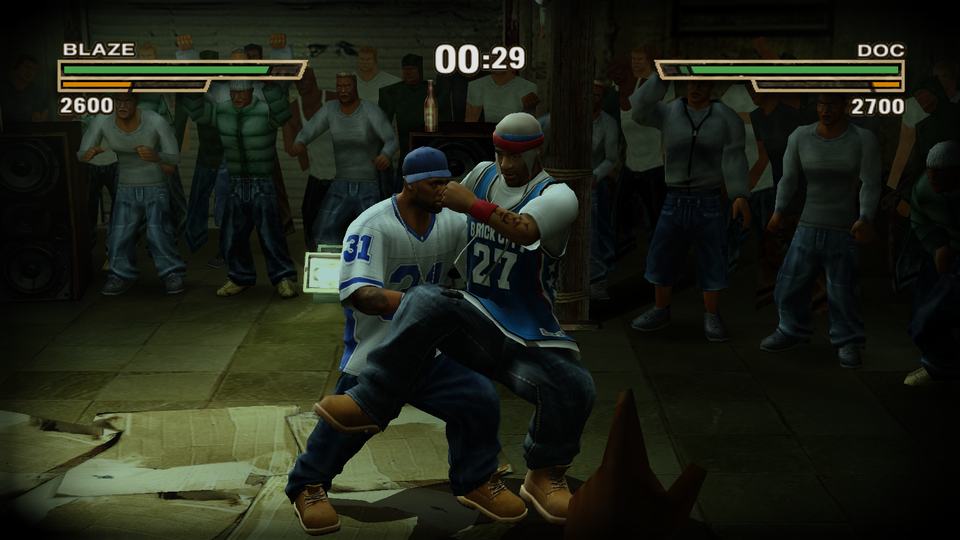
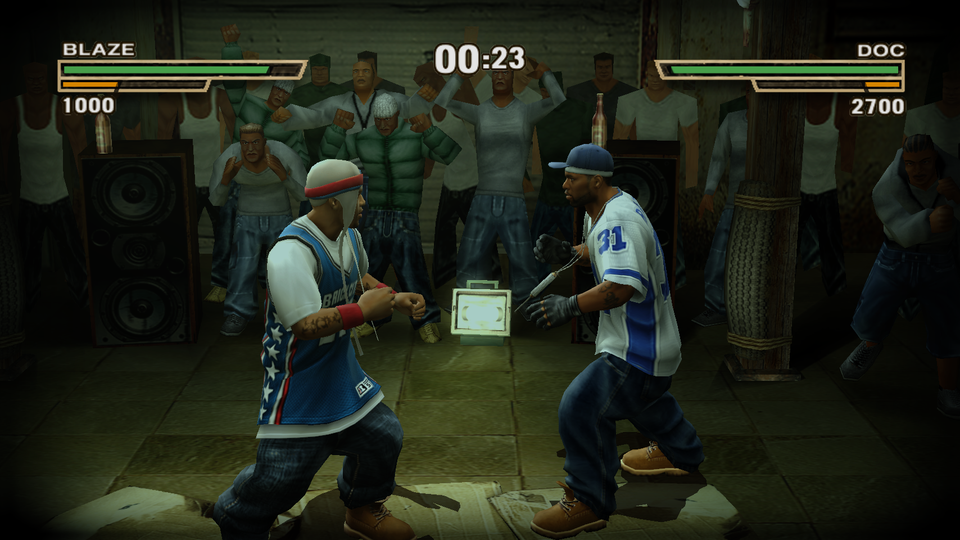
docs: show selected face-off as widescreen comparison
Use matching step1200 HD captures for the README 4:3/16:9 pair and gallery
hero. Update exact media fingerprints, provenance and resolved owner choice.

diff --git a/scripts/check-source-tree.py b/scripts/check-source-tree.py
@@ -25,10 +25,10 @@ APPROVED_README_MEDIA = {
[1 lines of base64/hex data omitted]
 
     # 2026-10-13: owner requested curated PR22 media from the Mac capture set.
[9 lines of base64/hex data omitted]

diff --git a/PROGRESS.md b/PROGRESS.md
@@ -180,6 +180,8 @@
 
 | D111 | 2026-10-14 | Owner rejected the selected battle capture and requested alternatives; do not choose its replacement until he selects an option. Remove merged PR12 from README player copy and state released widescreen availability directly. | Offer existing HD battle frames at steps900,1200,2100; keep technical build provenance in the gallery. No new media is published by this wording update. |
 
+| D112 | 2026-10-14 | Vlad selected option B, the step1200 face-off, and requested a widescreen-versus-4:3 comparison. Replace the README hero with the labelled matched pair and update the standalone gallery hero to the same moment. | Both sides use HD, scale2 and gamma; proportional fitting preserves vertical framing. Exact new fingerprints/provenance replace the rejected step1500 exports. |
+
 ## 2. Environment inventory (2026-09-17)
 
 - OS: Windows 11 Pro 10.0.26200
@@ -226,7 +228,7 @@ defjam-recomp/
 
 ## 5. Open questions for Vlad
 
-- **2026-10-14 — PR22 battle still:** owner rejected the current capture. Choose A (step900, strike/recoil), B (step1200, face-off) or C (step2100, clinch) from the supplied battle. Same-frame HD4:3 masters exist for an updated widescreen pair. Selection remains pending.
+- **2026-10-14 — PR22 battle still:** resolved; owner chose B step1200 face-off for the widescreen/4:3 comparison (D112).
 
 - **(2026-10-12) Interactive Mac updater acceptance.** Desktop access resolved on retry. Live release picker, historical refusal, local future GUI update/downgrade, Repair, cancellation/late completion and Play verified; UI status fixes implemented. Broader Mac OS/quarantine/HD/external-volume/reboot and native Windows/Deck acceptance remain pending; no new policy input needed.
 
@@ -258,7 +260,6 @@ defjam-recomp/
 
 > Recent entries only; older entries remain unchanged in the local `docs/worklog/` archive.
 
-- 2026-10-13 20:11 — Owner chose v0.9.0 (D106). Focused seeded audio repeat24/25 passes; only existing underrun gate fails (2 dry events,0 dropped buffers), versus accepted baseline5 dry/290post-anchor reports. Explicit16:10 repeat has no faults, restored saves and80 golden records. Found/fixed Mac auto notch geometry (D107) in isolated source: AppKit safe-area helper and Objective-C build-input certification; focused32tests pass. Bundled-dependency rebuild109steps and build certificate pass (`fix-build.txt`); required full regression running (`fix-full.txt`), then corrected real-settings fullscreen/overlay check queued.
 - 2026-10-13 20:23 — Mac auto fix native build109steps/certificate pass; complete source suite352pass/30skip (`fix-all-unit.txt`). Full runtime regression remains active: title/menu goldens, launcher, overlay and fight pass so far; bundled interpreter lacks pytest, independently resolved by the complete UV source-suite run. Compact actual-gameplay GIF3.45MB plus two60fps comparison clips exported locally with hashes; not published.
 - 2026-10-13 21:07 — Fixed-source full regression completes11/16 in56min (`logs/widescreen-macos/fix-full.txt`, integration `logs/regress-20261013-210713.txt`): fight/FFA/Terrordome/replay/intro/gym and soak3/3 pass; combat26/27 and versus25/26, each onlyaudio.dry_queue3events/0drops. Other failed checks: bundled Python lacks pytest (independent352-source-tests pass), known startup callback in m2, historicalstream callback0x001E3C14 during crib boot (crib reached/saves restored). Targeted fullscreen and unit/m2/crib repeats queued serially; raw failures retained.
 - 2026-10-14 12:00 — **Stale-docs pass from the platform-parity audit (issue #15).** Fixed statements that contradicted the shipped state: `docs/known-issues.md` (Linux launcher/overlay shipped since v0.7.0 and checked on the Deck 2/2; launcher and HD list now include Linux; Clang note points at the Deck runs), `docs/02-test-plan.md` and `docs/01-plan-review.md` (WIC/CNG and M5-via-Proton lines marked superseded by D95 and v0.6.1/v0.7.2), `docs/04-improvement-backlog.md` (installer section, overlay note, clang-cl note and the Steam Deck row of the comparison table). `README.md` is left to PR #22, which rewrites the HD line. Documentation only; no code, toolkit or release change.
@@ -266,20 +267,23 @@ defjam-recomp/
 - 2026-10-13 21:34 — PR12 source7e95ebe accepted by CI38495079579 (25/25), Macreport commented and PRmerged c4bcda69b3dc839a3705bfb443fc774d7828f33a. Exactmerge taggedv0.9.0; source release38495648349 passes27/27 and mergeCI38495640368 green. Publishedlatestv0.9.0 with9 game-free setup/checksum/provenance assets; allthree platformdigests/source/toolkit identities verified, MacDMG and payloadhash locallychecked and correctedsource bytesmatch nativevalidation. Existingv0.8.0 untouched; no gamebinary/data/generatedsource/newmedia published. Localmedia review ZIP27.8MB ready for ownerselection; savebaseline15/15 unchanged.
 - 2026-10-14 08:30 — PR22 curated media refresh: reviewed six hero poses, original/HD and widescreen pairs, launcher/overlay, Story/FFA sheets and three videos sampled at4fps throughout. Nine selected exports exact-pinned; hero+GIF4.03MB, longer clips linked from gallery. Synced v0.9.0 and corrected released-beta wording; candidate provenance retained. Unit suite356passed/34skipped; link/hygiene results in logs/media-review/verification.txt. No game/runtime changes or original saves touched.
 - 2026-10-14 08:40 — Owner rejected the battle still; reviewed existing step900 strike,1200 face-off and2100 clinch options, replacement selection pending. README removes PR12 caption and directly states all-platform widescreen beta sincev0.9.0. Technical provenance retained in gallery; no new media or runtime changes. Source/whitespace checks pass.
+- 2026-10-14 08:45 — Owner selected B face-off, step1200: README hero now1932x584 labelled4:3/16:9 pair, HD/scale2/gamma on both; gallery960x540 hero also replaced. Revised2media SHA256pins and captions/provenance; no new raw data/runtime changes. Focused publication/agent tests, source policy and whitespace checks run; preview updated.
 
 ## 7. Hand-off
 
-### README media PR22 — battle replacement pending, 2026-10-14
+### README media PR22 — face-off comparison selected, 2026-10-14
 
-Worktree `/Users/vlad/.codex/worktrees/readme-media-review/DefJamFFNY-recomp`,
-public branch `docs/readme-intro-refresh`. Widescreen wording now states
-availability since v0.9.0 on Windows/macOS/Linux/Deck, without PR12 references
-in README. Exact technical capture provenance stays in the media gallery.
-Owner rejected the prior still; offer existing `hd-16x9-fight-step{900,1200,2100}.png`
-from the `8ca5` capture worktree's `logs/widescreen-macos/media/`. Wait for his
-choice before replacing hero/comparison exports and their fingerprints.
-No new capture or runtime change. Current setup/Deck/varied-scene gaps remain
-in `docs/media/capture-plan.md`. PR22 not merged; original unrelated edits preserved.
+Vlad selected B, step1200 face-off, for the widescreen/4:3 comparison (D112).
+README now uses `widescreen-comparison.png`; gallery `gameplay-hero.png` shows
+the same selected moment. Both revised exports have exact pins and provenance.
+Widescreen availability is stated directly since v0.9.0 on all three platforms;
+technical capture identities stay in the gallery. Worktree:
+`/Users/vlad/.codex/worktrees/readme-media-review/DefJamFFNY-recomp`, PR22 branch
+`docs/readme-intro-refresh`. Selected raw masters are `hd-{4x3,16x9}-fight-step1200.png`
+in the capture worktree's `logs/widescreen-macos/media/`. No decision pending.
+Next: review/merge PR22 if desired; no merge/release authorized here. Current
+setup/Deck/varied-scene gaps remain in `docs/media/capture-plan.md`. No runtime
+changes or original save modifications; archives/raw masters remain local.
 
 ### Widescreen v0.9.0 — released; PR #22 media ready locally
 

diff --git a/docs/media/README.md b/docs/media/README.md
@@ -12,10 +12,10 @@ Gaming Mode or Windows-specific rendering.
 
 ## Fight preview
 
-![Blaze and Doc grappling with HD textures at 16:9](gameplay-hero.png)
+![Blaze and Doc facing off with HD textures at 16:9](gameplay-hero.png)
 
-The close grapple at simulation step 1500 shows both fighters, a readable HUD
-and the wider arena. The README uses a compact three-second, 480×270 GIF.
+The owner-selected face-off at simulation step 1200 shows both fighters,
+a readable HUD and clothing detail. The README uses a compact three-second, 480×270 GIF.
 [Download the longer fight clip](hd-16x9-gameplay.mp4) (silent MP4, 60-fps export).
 MP4 links open GitHub's file page for download; they are not inline video players.
 
@@ -23,7 +23,8 @@ MP4 links open GitHub's file page for download; they are not inline video player
 
 ![Matching 4:3 and 16:9 fight views, both with faithful HD textures](widescreen-comparison.png)
 
-Same seeded fight, simulation step 1500, scale and HD packs on both sides.
+Owner-selected face-off: same seeded fight, simulation step 1200, scale and
+HD packs on both sides.
 The 16:9 view reveals more of the arena horizontally while preserving vertical
 framing and moving the health bars toward the edges. The 4:3 image is fitted
 inside the left panel without stretching.
@@ -69,7 +70,9 @@ new update controls. A fresh setup capture is still needed; see the
 
 The owner requested review, selection and inclusion of this supplied capture
 set in PR #22 on October 13, 2026. Only the selected exports below are published,
-with exact fingerprints in `scripts/check-source-tree.py`; raw recordings,
+with exact fingerprints in `scripts/check-source-tree.py`. On October 14 the
+owner selected option B, the step-1200 face-off, for the hero and widescreen
+comparison; these replace the earlier step-1500 exports. Raw recordings,
 simulation streams, native masters and diagnostic contact sheets stay local.
 
 Gameplay stills, GIF and videos: PR #12 source `a7dc1b7`, CI merge `d319a802`,
@@ -96,10 +99,10 @@ and `ac3583188a87e46dc7f183969f2b51dd0300cf3d6bd05ca3ecf40513c61f4d2f`.
 
 | Export | Dimensions / cadence | Size | SHA-256 |
 |---|---|---|---|
[9 lines of base64/hex data omitted]

diff --git a/README.md b/README.md
@@ -26,9 +26,11 @@ the game on your machine. PS2 and GameCube copies cannot be used.
 
 ## Gameplay
 
-![Blaze and Doc grappling in the native Mac port, with faithful HD textures and a wider 16:9 view](docs/media/gameplay-hero.png)
+![Blaze and Doc face-off: original 4:3 framing versus wider 16:9, with faithful HD textures on both sides](docs/media/widescreen-comparison.png)
 
-Native macOS rendering at 2× scale with faithful HD textures and a 16:9 view.
+**4:3 versus 16:9 widescreen:** the same fight moment, with faithful HD textures
+and native macOS rendering at 2× scale. The wider view reveals more of the arena
+while keeping the fighters and HUD in proportion.
 
 ![Three-second fight preview showing strikes and a knockdown](docs/media/gameplay-preview-compact.gif)
 

diff --git a/docs/media/capture-plan.md b/docs/media/capture-plan.md
@@ -2,7 +2,8 @@
 
 The [gallery](README.md) now contains reviewed Mac gameplay, original/HD and
 4:3/16:9 comparisons, plus the v0.9.0 launcher and F1 overlay. The README uses
-one grapple still and one compact 20-fps GIF (about 4 MB together); videos are
+one owner-selected face-off 4:3/16:9 comparison and one compact 20-fps GIF
+(about 4.53 MB together); videos are
 linked downloads. Gameplay came from the PR #12 candidate and is labelled as
 such. Widescreen beta is now released on all three platforms in v0.9.0.
 
